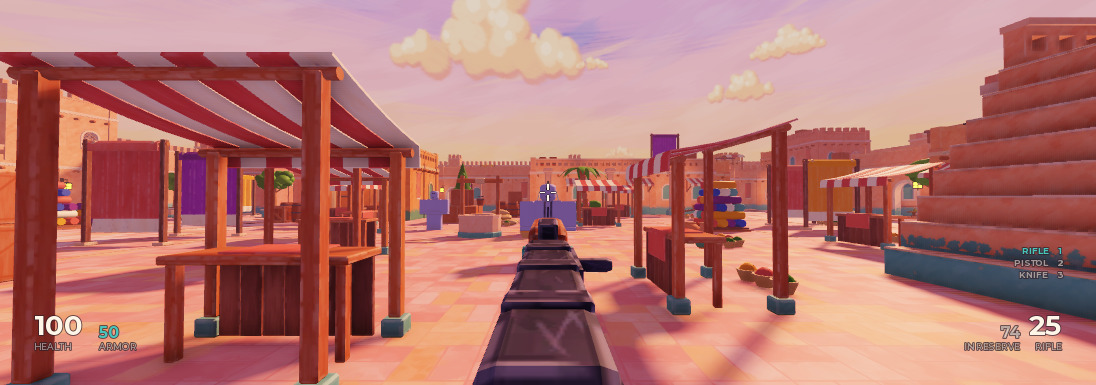
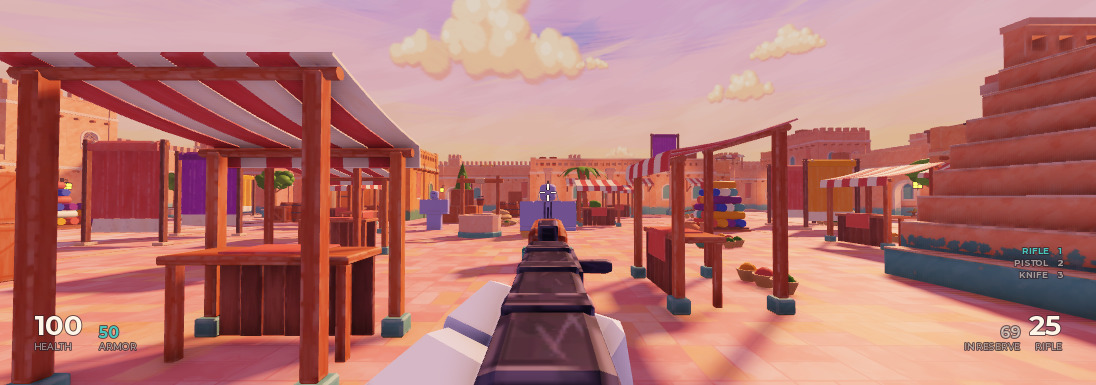
Aiming down the sights lands on centre
Aiming moved the weapon from where the animation was meant to hold it. On
the body Roblox makes it rests 0.07 studs to the left of that, so the sights
ended up off centre. Where the rear sight rests is now measured in the game,
when the arms are doing nothing but holding the weapon, and followed slowly.
Both sights measure 0.001 studs off the centre line, also after shots, a
reload and a change of weapon.

diff --git a/desert-fps/HANDOFF.md b/desert-fps/HANDOFF.md
@@ -594,6 +594,10 @@ The owner, on the third-person animations: "this third person animation looks go
 
 **Tested in a playtest.** All twelve load from their asset ids at the right lengths. The weapon in the idle sits 0.48 right, 0.44 down and 1.07 ahead of the camera, pointing dead ahead (the Blender figures were 0.55, 0.52, 1.0; Roblox's default body is not quite the kit's). `test_weapons.luau` was not run again; the same six things were seen to work in the recorded run (every target died as planned, the wall came down in 6.8 s).
 
+**Aiming was off centre** (the owner: "The ADS is off cennter"). Aiming moved the weapon from where the animation was meant to hold it, and on Roblox's body it rests 0.07 studs to the left of that and 0.08 higher, so the sights landed that far out. Now where the rear sight rests is measured in the game, once the arms have done nothing but hold the weapon for 0.3 s, and followed slowly from then on (`WeaponConfig.ViewArms.Settle`, `RestFollow`). Measured after the fix: both sights 0.001 studs off the centre line, the rear sight 0.108 below the line of sight and 1.30 ahead, the same after shots, a reload and a change of weapon. The sights sit a little under the crosshair on purpose (`SightDrop`), so they frame the target instead of covering it. Picture: `assets/studio/fps-rifle-aiming.jpg`.
+
+**The owner on the animations:** "Anims ok for now".
+
 **A bug found on the way.** A body makes its own torso and head solid whatever it is told. The arms' body hangs where the player's own is, and it threw the player a hundred studs across the town. The arms are now in a collision group that touches nothing (`ViewArms`).
 
 **Decisions made here.**
